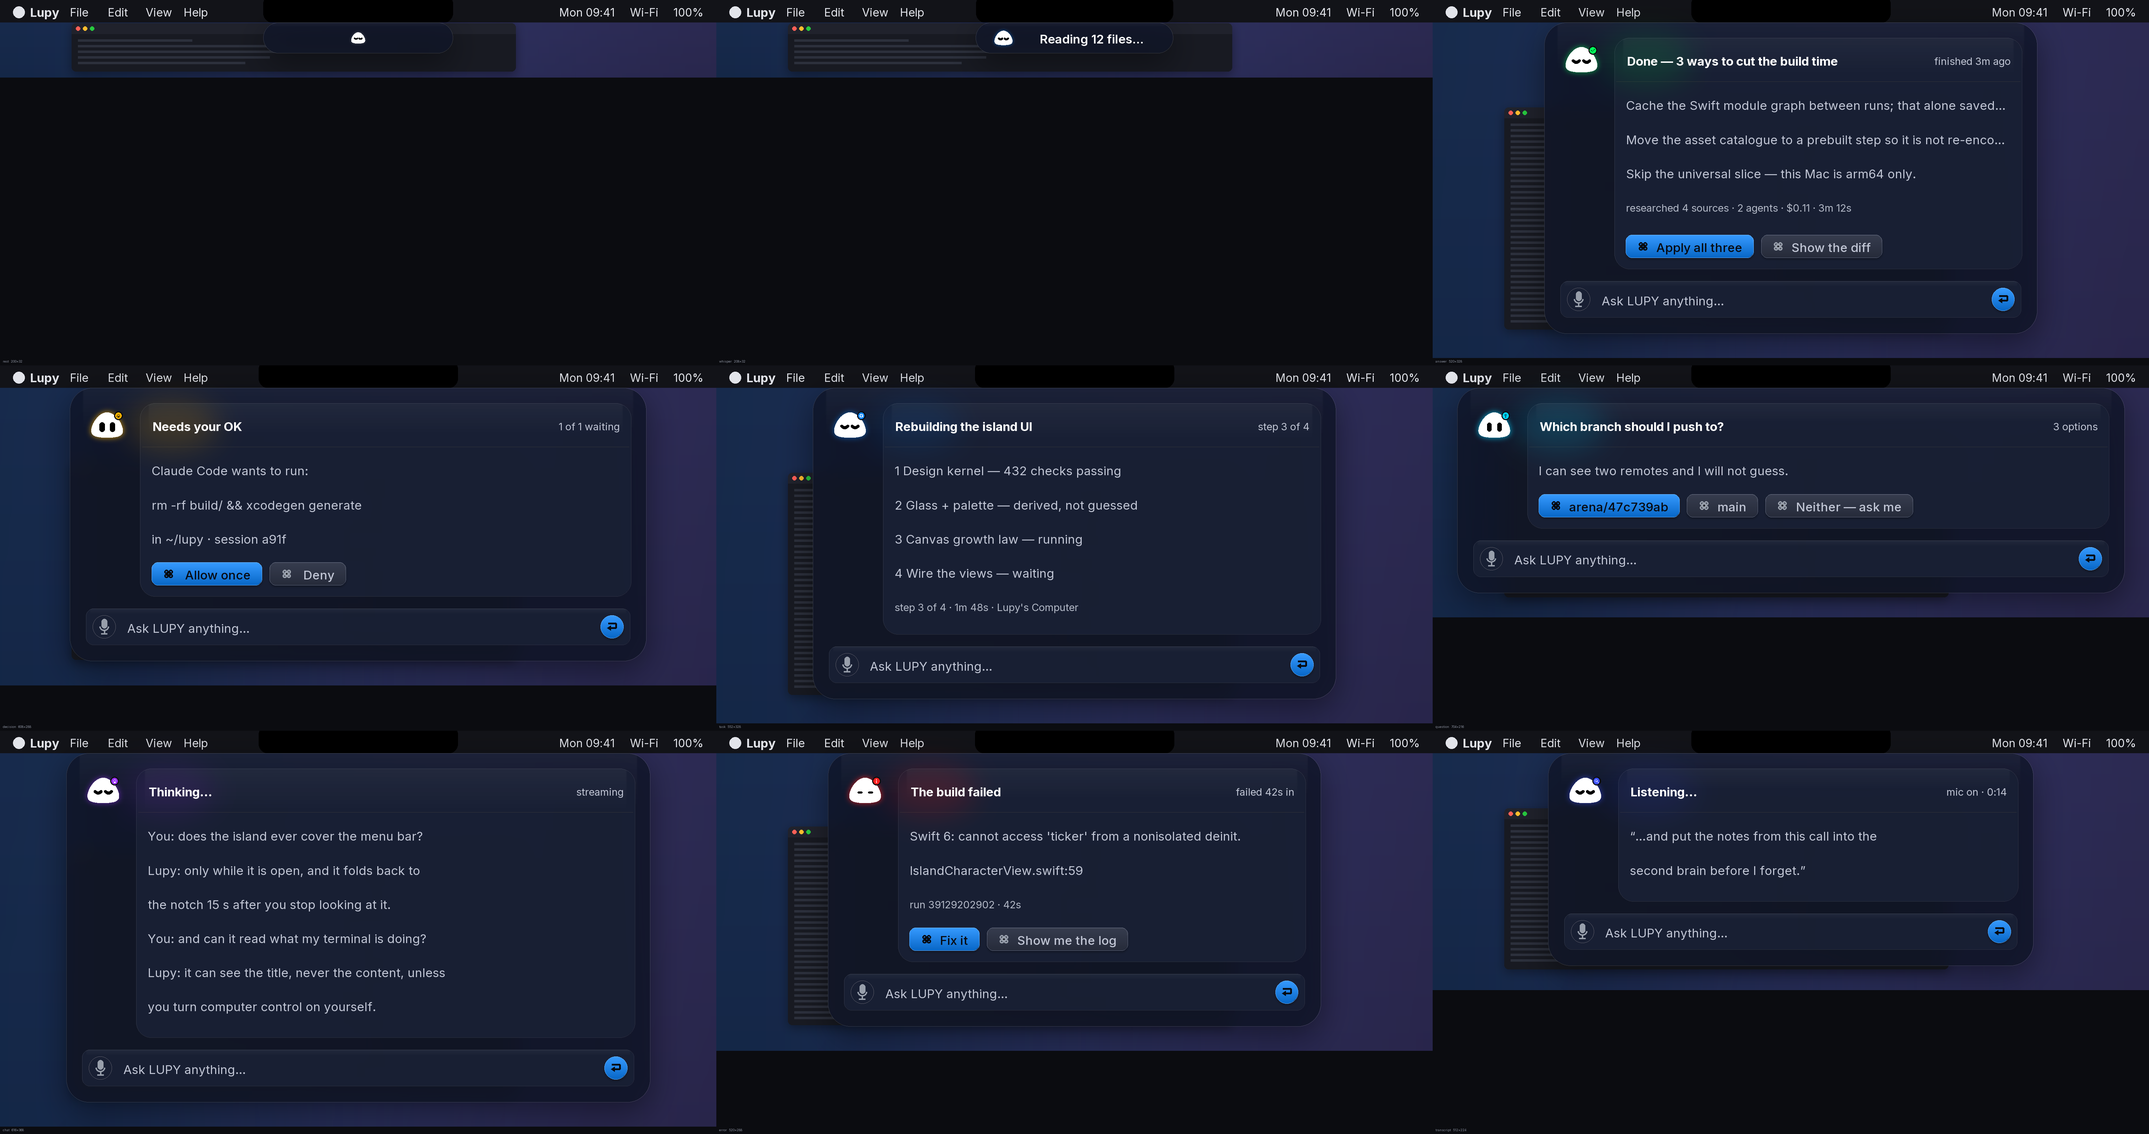
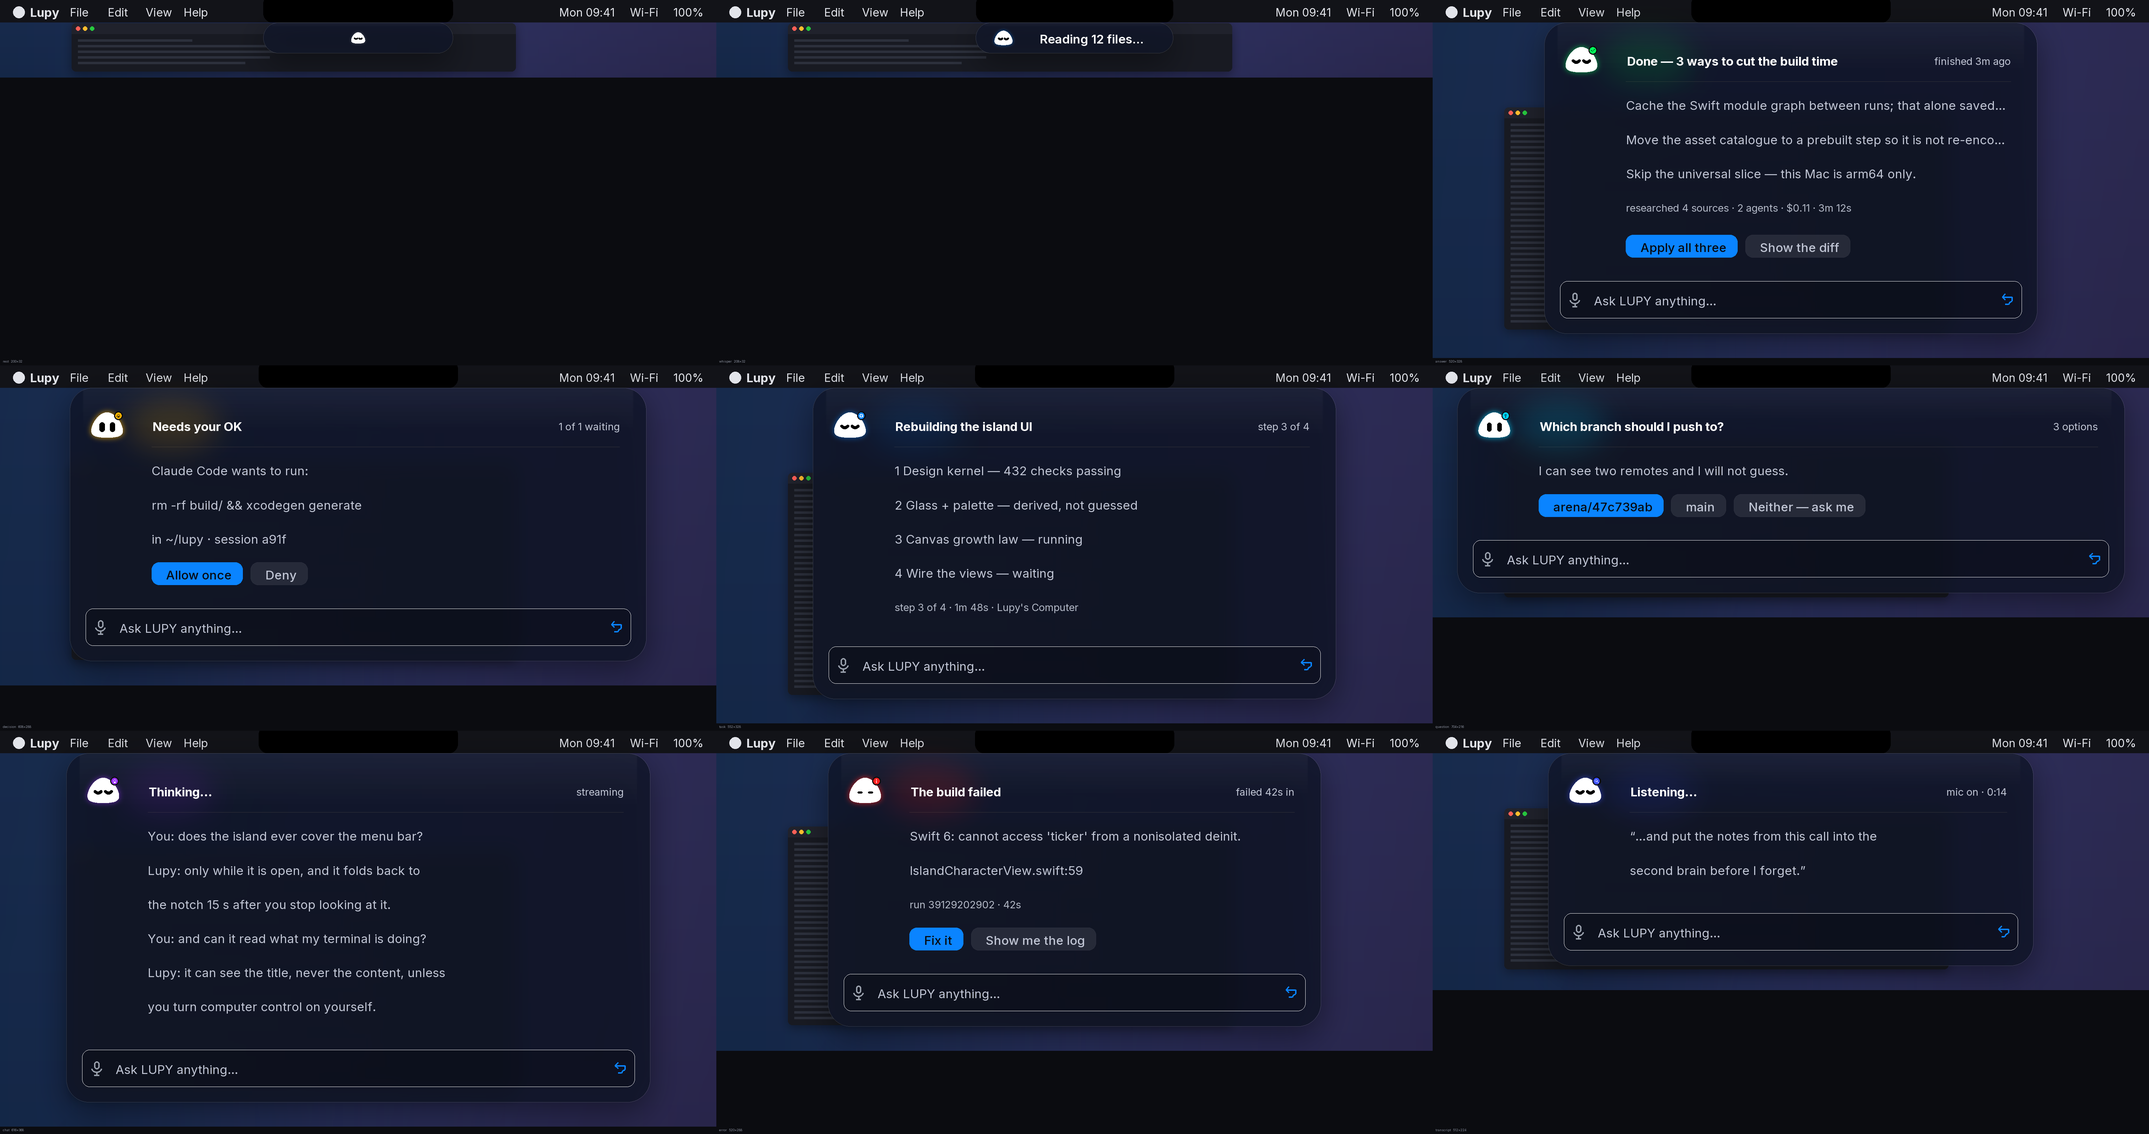
macOS surface language: one glass, two shapes, flat controls, bare glyphs
The founder's third pass named it: nested boxes and four corner shapes. Fixed the
way macOS itself does it, with his references and the glass literature behind it:

- ONE glass per region. The card's second sheet of glass is gone; grouping inside
  the surface is spacing + hairline dividers, like System Settings. The composer
  is a recess (black 22% + one 1px hairline), like a search field in a toolbar.
- TWO shapes, two roles: the surface (capsule band / 24 open) and a control
  (8 pt continuous: chips, field). Circles retired; mic and send are bare glyphs,
  because macOS fields carry symbols, not symbols-inside-shapes.
- FLAT controls: solid accent (ink text, our 4.5:1 law) or white 9% + 12% hairline.
  No gradients, gloss or shadows on controls. Shortcuts stay on the keyboard —
  a macOS dialog button never prints its ⌘Y on its face.
- Icons redrawn stroke-based at SF Symbols proportion (1.5pt at a 16pt glyph).
- Hairlines are one device pixel at every scale.
- Floor is his machine: macOS 15 Sequoia (15.7.4, 24G517); deployment target 15.
- Law doc gains THE SURFACE LANGUAGE section with the research behind each rule.
473 design checks pass.

diff --git a/Mac/Sources/Lupy/UI/LupyIslandCanvas.swift b/Mac/Sources/Lupy/UI/LupyIslandCanvas.swift
@@ -84,12 +84,11 @@ struct LupyComposer: View {
         let circle: CGFloat = 24          // one control size across the island
         HStack(spacing: LupyIslandLayout.chipIconGap + 4) {
             Image(systemName: "mic.fill")
-                .font(.system(size: 11, weight: .medium))
-                // Icons take the iconography tone; words never do.
+                .font(.system(size: 14, weight: .medium))
+                // Icons take the iconography tone; words never do. Bare glyph:
+                // macOS fields carry symbols, not symbols-inside-shapes.
                 .foregroundStyle(LupyPalette.iconography.colour)
                 .frame(width: circle, height: circle)
-                .overlay(Circle().strokeBorder(LupyPalette.decoration.colour
-                    .opacity(0.6), lineWidth: 1))
             TextField("Ask LUPY anything…", text: $text)
                 .textFieldStyle(.plain)
                 .font(LupyType.bodyFont)
@@ -105,16 +104,24 @@ struct LupyComposer: View {
                 text = ""
             } label: {
                 Image(systemName: "return.left")
-                    .font(.system(size: 11, weight: .bold))
-                    .foregroundStyle(LupyPalette.ink.colour)
+                    .font(.system(size: 15, weight: .semibold))
+                    .foregroundStyle(LupyPalette.accent.colour)
                     .frame(width: circle, height: circle)
-                    .background(LupyPalette.accent.colour, in: Circle())
             }
             .buttonStyle(.plain)
         }
         .padding(.horizontal, 8)
         .frame(height: fieldH)
-        .background(LupyGlass.card().surface(corner: LupyIslandLayout.fieldCorner))
+        // A recess, not a second sheet of glass: darker inset + one hairline,
+        // the way a macOS search field sits inside its toolbar.
+        .background(
+            RoundedRectangle(cornerRadius: LupyIslandLayout.fieldCorner, style: .continuous)
+                .fill(Color.black.opacity(0.22))
+        )
+        .overlay(
+            RoundedRectangle(cornerRadius: LupyIslandLayout.fieldCorner, style: .continuous)
+                .strokeBorder(Color.white.opacity(0.10), lineWidth: 1)
+        )
     }
 }
 
@@ -133,23 +140,6 @@ struct LupyCanvasChrome<Content: View>: View {
     var body: some View {
         let c = canvas
         ZStack(alignment: .topLeading) {
-            // The card's glass, behind whatever the view brings.
-            if !c.content.isEmpty {
-                RoundedRectangle(cornerRadius: LupyIslandLayout.cardCorner, style: .continuous)
-                    .fill(.ultraThinMaterial)
-                    .overlay(
-                        RoundedRectangle(cornerRadius: LupyIslandLayout.cardCorner, style: .continuous)
-                            .fill(LupyGlass.card().base.colour
-                                .opacity(LupyGlass.card().fillAlpha))
-                    )
-                    .overlay(
-                        RoundedRectangle(cornerRadius: LupyIslandLayout.cardCorner, style: .continuous)
-                            .strokeBorder(LupyGlass.card().hairline.colour, lineWidth: 1)
-                    )
-                    .frame(width: c.content.width, height: c.content.height)
-                    .offset(x: c.content.x, y: c.content.y)
-            }
-
             // The status sentence, in the one home the law gave it.
             if !c.statusBox.isEmpty {
                 LupyStatusLine(state: state,

diff --git a/tools/ui/render_island.py b/tools/ui/render_island.py
@@ -263,99 +263,54 @@ def paste_glass(img, box, corner, glass, ss, shadow=True, highlight=True):
 
 
 def button(img, rect, ss, label, font, kind, accent, ink_text, body_text, radius=None):
-    """A control that looks pressable: gradient fill clipped to a rounded shape, inner
-    top highlight, 1px border, small shadow.
-
-    `kind` is 'primary' (the accent, with INK text: white on a vivid accent measures
-    3.6:1, under our own 4.5:1 law, so the accent button takes near-black words) or
-    'glass' (a lifted card surface with body-colour words).
-    """
+    """A macOS button: flat fill, one hairline on the glass variant, no gradient,
+    no gloss, no shadow. Sequoia controls are quiet; the proof must be too."""
     x0, y0, x1, y1 = [int(v) for v in rect]
     w, h = x1 - x0, y1 - y0
-    rad = radius if radius is not None else int(h * 0.34)
-
-    # shadow first, under everything
-    sh = Image.new("L", img.size, 0)
-    ImageDraw.Draw(sh).rounded_rectangle([x0, y0 + int(1.5 * ss), x1, y1 + int(1.5 * ss)],
-                                         rad, fill=80)
-    sh = sh.filter(ImageFilter.GaussianBlur(ss * 1.2))
-    img.paste(Image.new("RGB", img.size, (0, 0, 0)), (0, 0), sh)
-
-    # gradient fill, built on its own layer and clipped to the rounded shape
-    if kind == "primary":
-        # accent arrives as 0..1 from the law; the gradient maths runs in 0..255.
-        # Mixing the two without converting is how every button came out white.
-        acc = rgb(accent)
-        fill_top = irgb(mix(acc, (255, 255, 255), 0.18))
-        fill_bot = irgb(mix(acc, (0, 0, 0), 0.22))
-        edge = irgb(mix(acc, (255, 255, 255), 0.38))
-        fg = ink_text
-    else:
-        fill_top, fill_bot = (54, 60, 78), (38, 43, 58)
-        edge = (98, 106, 128)
-        fg = body_text
-    layer = Image.new("RGB", (w, h), fill_top)
+    rad = radius if radius is not None else int(h / 2)
+    layer = Image.new("RGBA", (w, h), (0, 0, 0, 0))
     ld = ImageDraw.Draw(layer)
-    for i in range(h):
-        t = i / max(1, h - 1)
-        ld.line([(0, i), (w, i)], fill=irgb(mix(fill_top, fill_bot, t)))
-    hl = Image.new("L", (w, h), 0)
-    ImageDraw.Draw(hl).rounded_rectangle([1, 1, w - 2, int(h * 0.5)], rad,
-                                         outline=26, width=max(1, int(ss * 0.7)))
-    hl2 = Image.new("L", (w, h), 255)
-    ImageDraw.Draw(hl2).rectangle([0, int(h * 0.34), w, h], fill=0)
-    from PIL import ImageChops
-    hl = ImageChops.multiply(hl, hl2)
-    layer.paste(Image.new("RGB", (w, h), (255, 255, 255)), (0, 0), hl)
-    mask = Image.new("L", (w, h), 0)
-    ImageDraw.Draw(mask).rounded_rectangle([0, 0, w - 1, h - 1], rad, fill=255)
-    img.paste(layer, (x0, y0), mask)
-
-    d = ImageDraw.Draw(img)
-    d.rounded_rectangle([x0, y0, x1, y1], rad, outline=edge, width=max(1, int(ss * 0.6)))
+    if kind == "primary":
+        ld.rounded_rectangle([0, 0, w - 1, h - 1], rad, fill=rgb(accent) + (255,))
+    else:
+        ld.rounded_rectangle([0, 0, w - 1, h - 1], rad, fill=(255, 255, 255, 23))
+        ld.rounded_rectangle([0, 0, w - 1, h - 1], rad,
+                             outline=(255, 255, 255, 31), width=max(1, int(ss * 0.5)))
+    img.paste(layer.convert("RGB"), (x0, y0), layer.split()[3])
     if label:
+        d = ImageDraw.Draw(img)
         tw = d.textlength(label, font=font)
-        d.text((x0 + (w - tw) / 2, y0 + (h - font.size) / 2 - ss * 0.5), label,
-               font=font, fill=fg)
+        d.text((x0 + (w - tw) / 2, y0 + (h - font.size) / 2), label, font=font,
+               fill=ink_text if kind == "primary" else body_text)
     return img
 
 
-def icon_mic(d, cx, cy, s, colour):
-    """A microphone that reads as one: capsule body, cradle arc, stem, base."""
-    w = s * 0.42
-    d.rounded_rectangle([cx - w / 2, cy - s * 0.62, cx + w / 2, cy + s * 0.10],
-                        radius=w / 2, fill=colour)
-    d.arc([cx - s * 0.36, cy - s * 0.34, cx + s * 0.36, cy + s * 0.30],
-          start=0, end=180, fill=colour, width=max(1, int(s * 0.13)))
-    d.line([cx, cy + s * 0.30, cx, cy + s * 0.52], fill=colour, width=max(1, int(s * 0.13)))
-    d.line([cx - s * 0.24, cy + s * 0.52, cx + s * 0.24, cy + s * 0.52],
-           fill=colour, width=max(1, int(s * 0.13)))
+def icon_mic(d, cx, cy, s, color, ss):
+    """SF Symbols' mic, stroke-drawn: capsule body, cradle arc, stem, base."""
+    wdt = max(1, int(round(1.5 * ss)))
+    d.rounded_rectangle([cx - 0.17 * s, cy - 0.44 * s, cx + 0.17 * s, cy + 0.06 * s],
+                        radius=0.17 * s, outline=color, width=wdt)
+    d.arc([cx - 0.34 * s, cy - 0.22 * s, cx + 0.34 * s, cy + 0.30 * s], 0, 180,
+          fill=color, width=wdt)
+    d.line([cx, cy + 0.30 * s, cx, cy + 0.46 * s], fill=color, width=wdt)
+    d.line([cx - 0.16 * s, cy + 0.46 * s, cx + 0.16 * s, cy + 0.46 * s],
+           fill=color, width=wdt)
 
 
-def icon_return(d, cx, cy, s, colour):
-    lw = max(1, int(s * 0.16))
-    d.line([cx - s * 0.34, cy - s * 0.30, cx + s * 0.36, cy - s * 0.30], fill=colour, width=lw)
-    d.line([cx + s * 0.36, cy - s * 0.30, cx + s * 0.36, cy + s * 0.10], fill=colour, width=lw)
-    d.line([cx + s * 0.36, cy + s * 0.10, cx - s * 0.30, cy + s * 0.10], fill=colour, width=lw)
-    d.polygon([(cx - s * 0.10, cy - s * 0.12), (cx - s * 0.10, cy + s * 0.32),
-               (cx - s * 0.44, cy + s * 0.10)], fill=colour)
+def icon_return(d, cx, cy, s, color, ss):
+    """SF Symbols' return.left: shaft, chevron head, tail dropping at the right."""
+    wdt = max(1, int(round(1.6 * ss)))
+    d.line([cx - 0.28 * s, cy - 0.16 * s, cx + 0.34 * s, cy - 0.16 * s],
+           fill=color, width=wdt)
+    d.line([cx - 0.10 * s, cy - 0.36 * s, cx - 0.30 * s, cy - 0.16 * s,
+            cx - 0.10 * s, cy + 0.04 * s], fill=color, width=wdt, joint="curve")
+    d.line([cx + 0.34 * s, cy - 0.16 * s, cx + 0.34 * s, cy + 0.10 * s],
+           fill=color, width=wdt)
+    d.arc([cx + 0.10 * s, cy + 0.10 * s, cx + 0.58 * s, cy + 0.58 * s], 180, 270,
+          fill=color, width=wdt)
+    d.line([cx + 0.10 * s, cy + 0.34 * s, cx - 0.10 * s, cy + 0.34 * s],
+           fill=color, width=wdt)
 
-
-def icon_command(d, cx, cy, s, colour):
-    """⌘ as four loops and a square — drawn, because no font here carries the glyph."""
-    lw = max(1, int(s * 0.14))
-    r = s * 0.20
-    o = s * 0.20
-    for sx in (-1, 1):
-        for sy in (-1, 1):
-            bx, by = cx + sx * o, cy + sy * o
-            d.arc([bx - r, by - r, bx + r, by + r], start=0, end=360, fill=colour, width=lw)
-    d.rectangle([cx - o, cy - o, cx + o, cy + o], outline=colour, width=lw)
-    d.rectangle([cx - o + lw, cy - o + lw, cx + o - lw, cy + o - lw],
-                outline=(0, 0, 0, 0))
-
-
-# --------------------------------------------------------------------- the scene
 
 def scene_width_pt(canvas):
     """The screen width, in points, this canvas wants when drawn alone."""
@@ -456,80 +411,51 @@ def draw_scene(doc, canvas, rig, kind, pp, context=True, below=26, min_w=None):
     else:
         chip_y = None
 
-    # ---- chips: primary = accent with ink text, the rest glass
+    # ---- chips: flat macOS buttons; shortcuts stay on the keyboard
     if canvas["chips"] and content and chip_y is not None:
         cf = ImageFont.truetype(MED, max(6, int(doc["type"]["chip"] * ss)))
         cx = content[0] + m["inner"]
         accent = col["accent"]
         for i, ch in enumerate(canvas["chips"]):
             label = ch
-            if label[:2] in ("⌘Y", "⌘N") or label[:1].isdigit():
-                shortcut, rest = label[:2], label[2:]
-            else:
-                shortcut, rest = "", label
-            padH, igap = m["chipPadH"], m["chipIconGap"]
-            tw = d.textlength(rest, font=cf) / ss
-            sw = 0.0
-            if shortcut:
-                sw = 12 + igap          # ⌘ glyph box + gap; glyph drawn inside it
-            cw = tw + sw + 2 * padH
+            # macOS dialog buttons never print their shortcut on the face; the
+            # emitter's ⌘X / digit prefixes are for the rig, not for the button.
+            if label[:2] in ("⌘Y", "⌘N"):
+                label = label[2:]
+            elif label[:1].isdigit():
+                label = label[1:]
+            padH = m["chipPadH"]
+            tw = d.textlength(label, font=cf) / ss
+            cw = tw + 2 * padH
             if cx + cw > content[0] + content[2] - m["inner"]:
                 break
             x0, y0 = P(cx, chip_y)
             rect = [x0, y0, x0 + cw * ss, y0 + m["chip"] * ss]
-            if i == 0:
-                button(img, rect, ss, "", cf, "primary", accent, ink_text, body_text,
-                       radius=int(m["chipCorner"] * ss))
-            else:
-                button(img, rect, ss, "", cf, "glass", accent, ink_text, body_text,
-                       radius=int(m["chipCorner"] * ss))
+            button(img, rect, ss, "", cf, "primary" if i == 0 else "glass",
+                   accent, ink_text, body_text, radius=int(m["chipCorner"] * ss))
             d = ImageDraw.Draw(img)
-            tx = x0 + padH * ss
-            if shortcut:
-                icon_command(d, tx + 6 * ss, y0 + m["chip"] * ss / 2, 11 * ss,
-                             ink_text if i == 0 else rgb(col["icon"]))
-                tx += (12 + igap) * ss
-                d.text((tx, y0 + (m["chip"] * ss - cf.size) / 2), rest, font=cf,
-                       fill=ink_text if i == 0 else body_text)
-                tx += d.textlength(rest, font=cf)
-            else:
-                num, rest2 = rest[:1], rest[1:]
-                kb = ImageFont.truetype(BOLD, max(6, int(doc["type"]["chip"] * ss)))
-                d.rounded_rectangle([tx, y0 + 6 * ss, tx + 14 * ss, y0 + m["chip"] * ss - 6 * ss],
-                                    4 * ss, fill=(255, 255, 255, 0),
-                                    outline=ink_text if i == 0 else rgb(col["icon"]),
-                                    width=max(1, int(ss * 0.5)))
-                d.text((tx + 4.6 * ss, y0 + (m["chip"] * ss - kb.size) / 2 - ss * 0.4), num,
-                       font=kb, fill=ink_text if i == 0 else rgb(col["icon"]))
-                tx += 18 * ss
-                d.text((tx, y0 + (m["chip"] * ss - cf.size) / 2), rest2, font=cf,
-                       fill=ink_text if i == 0 else body_text)
+            d.text((x0 + padH * ss, y0 + (m["chip"] * ss - cf.size) / 2), label,
+                   font=cf, fill=ink_text if i == 0 else body_text)
             cx += cw + 8
 
-    # ---- composer: mic button + field + send
+    # ---- composer: one recessed field, bare glyphs, no shapes of their own
     if composer and composer[2] > 0:
         fx, fy = P(composer[0], composer[1])
         fw, fh = composer[2] * ss, composer[3] * ss
-        field = (side + composer[0] + 1, oy + composer[1] + 1,
-                 composer[2] - 2, composer[3] - 2)
-        paste_glass(img, field, m["fieldCorner"], doc["glass"]["card"], ss, shadow=False)
+        box = [fx + ss * 0.5, fy + ss * 0.5, fx + fw - ss * 0.5, fy + fh - ss * 0.5]
+        rad = m["fieldCorner"] * ss
+        ov = Image.new("RGB", img.size, (0, 0, 0))
+        msk = Image.new("L", img.size, 0)
+        ImageDraw.Draw(msk).rounded_rectangle(box, rad, fill=56)   # black at 22 %
+        img.paste(ov, (0, 0), msk)
         d = ImageDraw.Draw(img)
-        # mic in its own round glass button — the standard affordance
-        mx, my = fx + 8 * ss + 12 * ss, fy + fh * 0.5
-        mr = 12 * ss
-        d.ellipse([mx - mr, my - mr, mx + mr, my + mr],
-                  outline=rgb(col["line"]), width=max(1, int(ss * 0.6)))
-        icon_mic(d, mx, my, mr * 1.15, rgb(col["icon"]))
+        # a hairline is ONE device pixel, at any proof scale
+        d.rounded_rectangle(box, rad, outline=(255, 255, 255, 26), width=1)
+        icon_mic(d, fx + 16 * ss, fy + fh / 2, 16 * ss, rgb(col["icon"]), ss)
         pf = ImageFont.truetype(REG, max(6, int(doc["type"]["body"] * ss)))
-        d.text((mx + mr + 12 * ss, fy + (fh - pf.size) / 2), "Ask LUPY anything…",
+        d.text((fx + 36 * ss, fy + (fh - pf.size) / 2), "Ask LUPY anything…",
                font=pf, fill=body_text)
-        # send: primary button at the right end
-        sw = 24 * ss
-        button(img, [fx + fw - 8 * ss - sw, fy + 8 * ss,
-                     fx + fw - 8 * ss, fy + fh - 8 * ss], ss, "", pf, "primary",
-               col["accent"], ink_text, body_text, radius=int(sw / 2))
-        d = ImageDraw.Draw(img)
-        icon_return(d, fx + fw - 8 * ss - sw / 2, fy + fh * 0.5, 12 * ss, ink_text)
+        icon_return(d, fx + fw - 16 * ss, fy + fh / 2, 16 * ss, rgb(col["accent"]), ss)
 
     # ---- LUPY, last: his light sits over the glass he stands on
     if avatar and avatar[2] > 0:

diff --git a/docs/LUPY3_ISLAND_LAW.md b/docs/LUPY3_ISLAND_LAW.md
@@ -112,3 +112,35 @@ judged mapping from every `IslandView` to its need.
   carry no composer and no card).
 - Say anything twice: two surfaces for one sentence is a test failure.
 - Let any text drop below 11 pt, the measured mush floor from the character work.
+
+---
+
+## THE SURFACE LANGUAGE (19 Oct 2026, after the founder's third pass)
+
+His eye caught what the research confirms: we had **three glass layers nested** —
+panel, card, field — and **four different corner shapes** — capsule, 24, 16, circles.
+macOS never does either.
+
+**One glass per region.** The glassmorphism literature agrees with System Settings:
+blur layers stack into mud ("one glass layer per viewport region", blur 12–20,
+a barrier tint for contrast, a 1 px hairline at 10–25 % white to sell the edge).
+Our panel already carries the derived barrier tint and the proven hairline; the
+card's second sheet of glass added nothing but a box inside a box. It is gone.
+Grouping inside the surface is done the macOS way: **spacing and hairline
+dividers**, never frames.
+
+**Two shapes, two roles.** The *surface*: capsule as a band, 24 pt continuous once
+open. A *control*: 8 pt continuous — chips and the composer's recessed field.
+Nothing else owns a shape. The composer is a **recess** (black 22 % + one hairline),
+like a search field set into a toolbar; its mic and send are **bare glyphs**,
+because that is what macOS fields carry — symbols, not symbols-inside-shapes.
+
+**Flat controls.** Sequoia buttons are quiet: solid accent (ink text, per our own
+4.5:1 law) or white 9 % + a 12 % hairline. No gradients, no gloss, no shadows on
+controls. Shortcuts live on the keyboard; a macOS dialog button never prints ⌘Y
+on its face.
+
+**Hairlines are one device pixel** at every scale, in proofs and in the app.
+
+**Floor:** macOS 15 Sequoia — the founder's machine (15.7.4, 24G517) is the floor;
+nothing below it is supported or tested.
